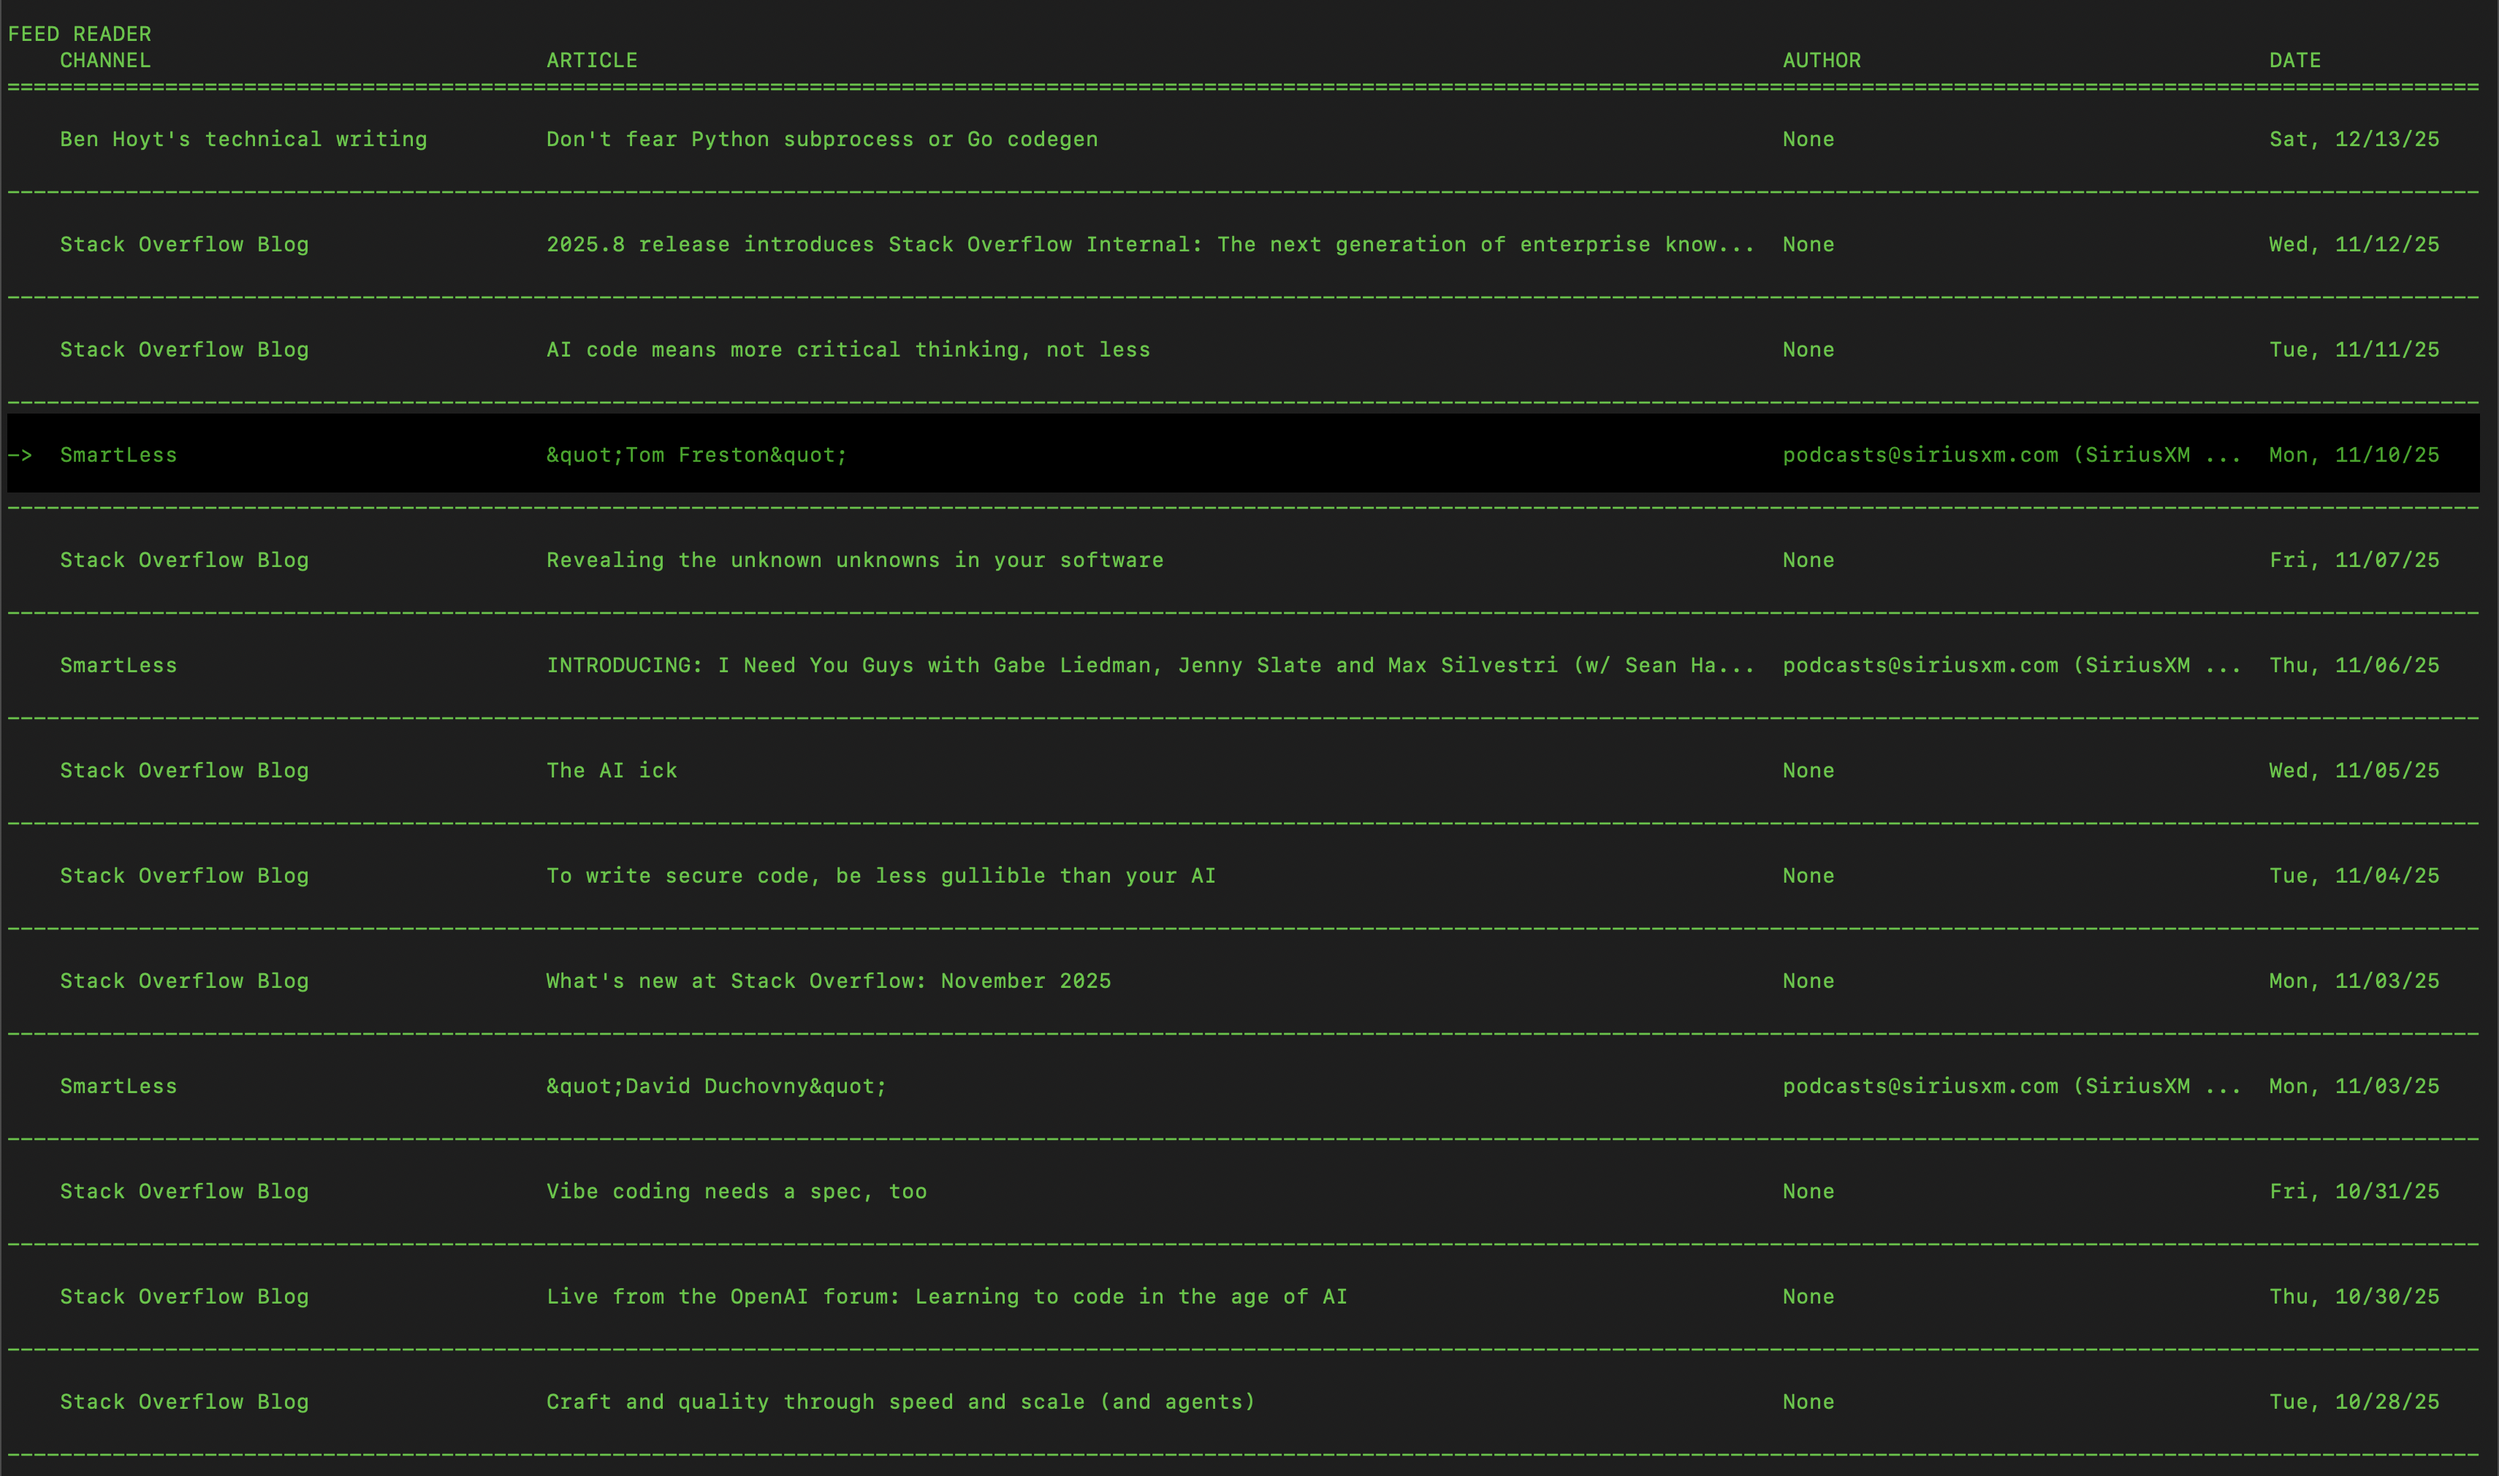
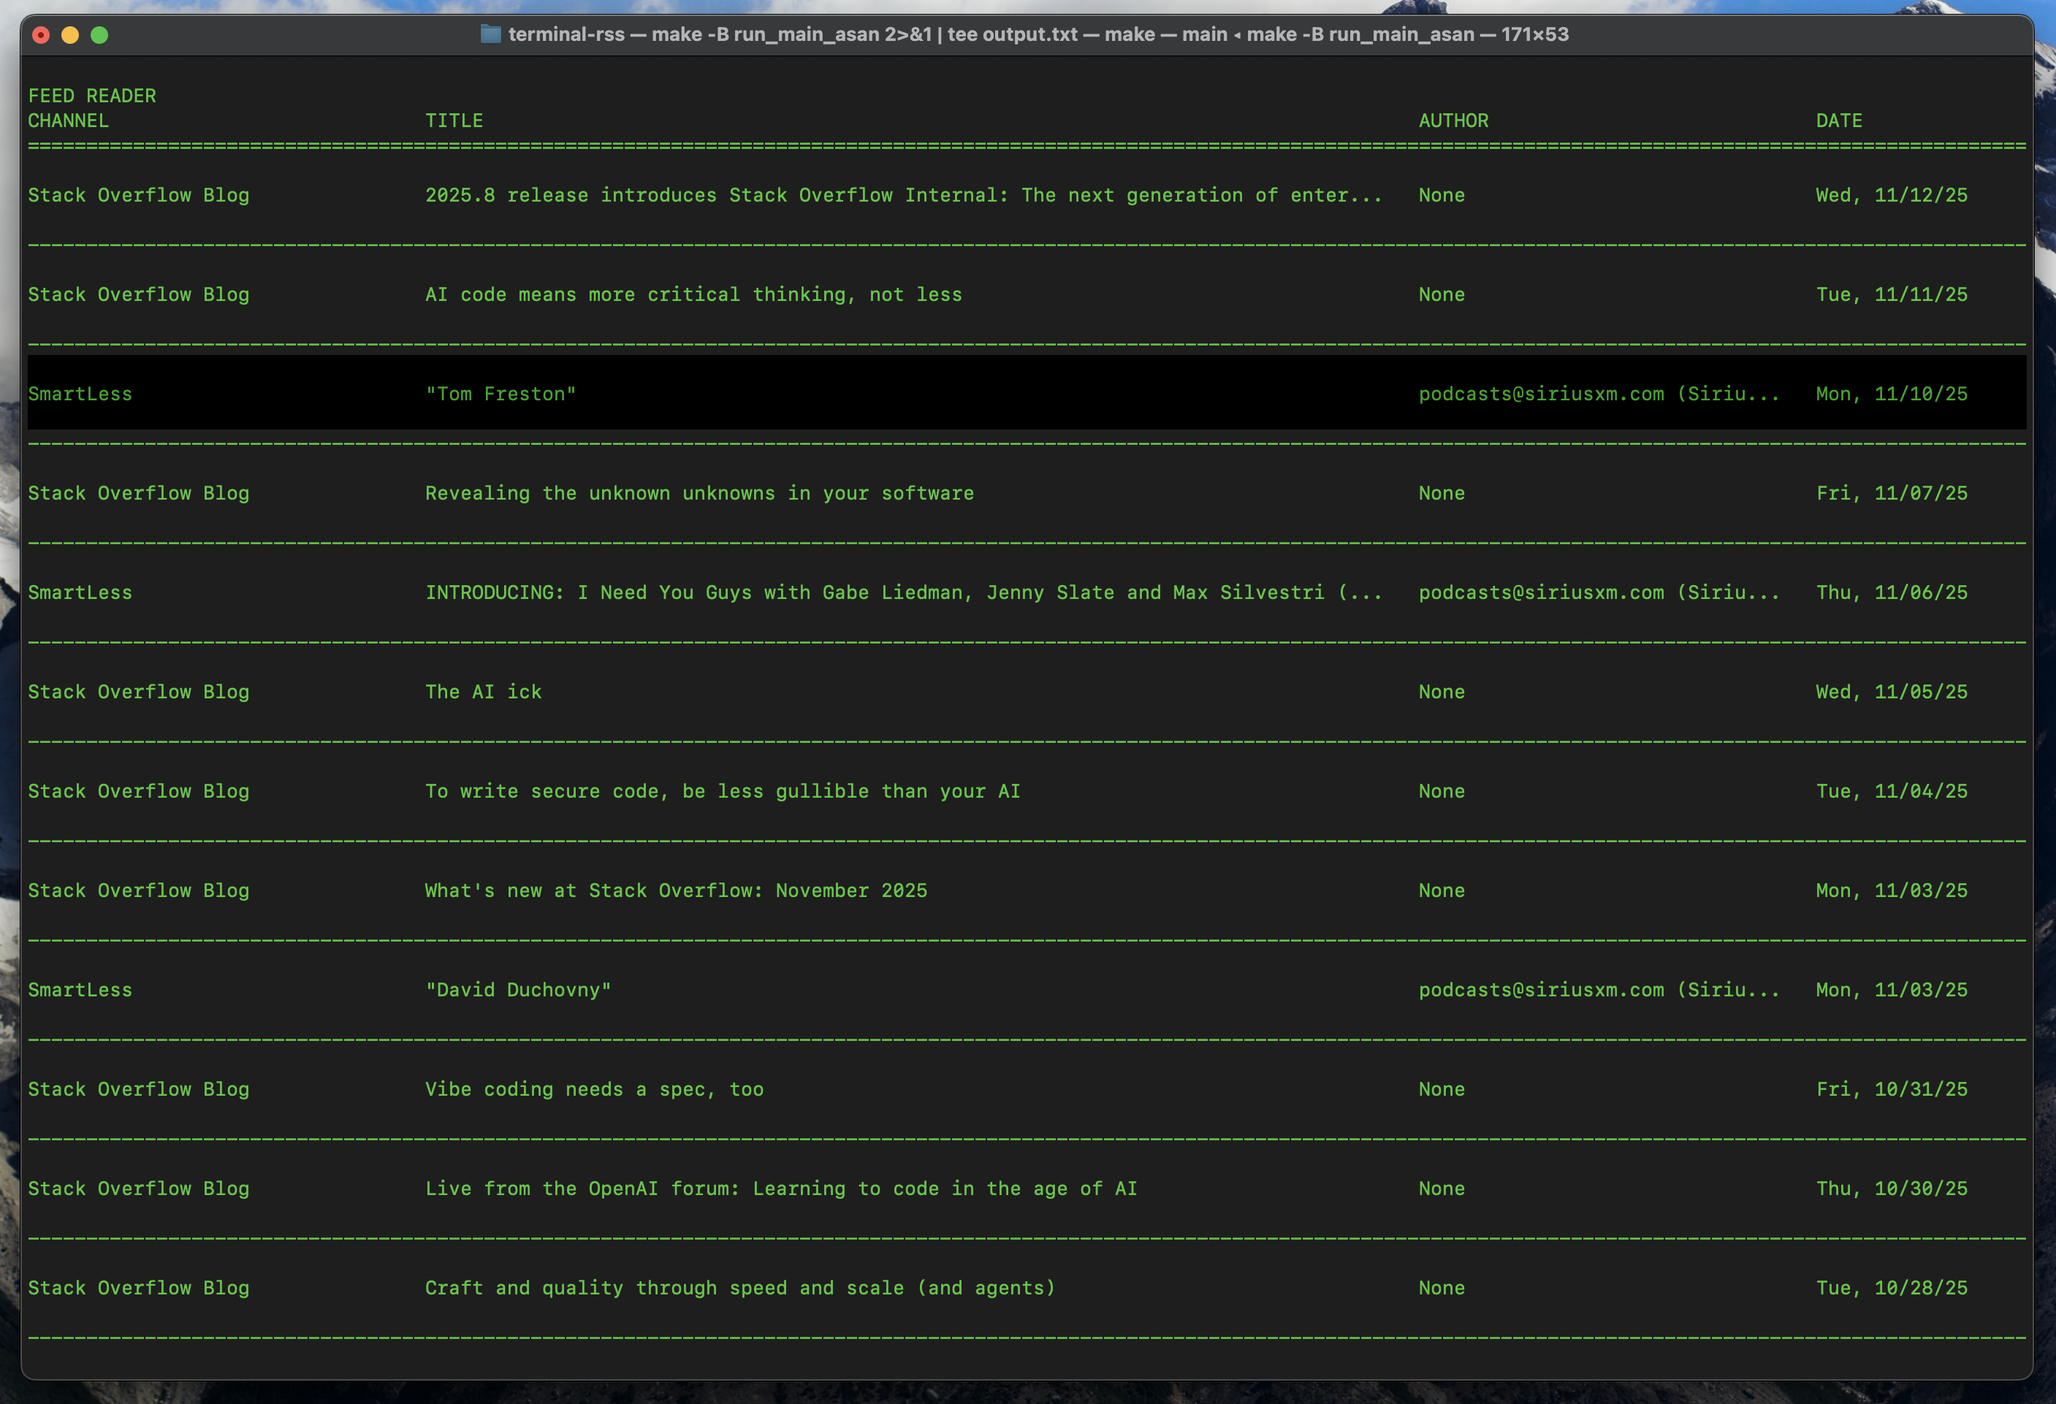
create article page, update readme, new screenshots, selected item is uppercase in basic menu

diff --git a/src/ui/pages/article_page.c b/src/ui/pages/article_page.c
@@ -8,24 +8,71 @@ char *options[] = {
     "Exit",
 };
 
+size_t PADDING = 10;
 size_t options_length = sizeof(options) / sizeof(options[0]);
 
 void article_page(app_state *app, local_state *state) {
+    int width = tb_width();
+
+    if (width > PADDING * 2) {
+        width -= PADDING * 2;
+    } else {
+        PADDING = 0;
+    }
+
+    char *divider = malloc(width + 1);
+    memset(divider, '-', width);
+    divider[width] = '\0';
+
+    int height = tb_height();
+
     article_page_state article_state = state->article_state;
     rss_item *article = article_state.item;
-    log_debug("Loaded article: %s", article->title);
-    int selection = display_basic_menu(10, options, sizeof(char *), options_length);
 
-    switch (selection)
-    {
-    case 0:
-        navigate(FEEDS_PAGE, app, (local_state){});
-        break;
-    case 1:
-        navigate(MAIN_PAGE, app, (local_state){});
-        break;
-    default:
-        navigate(EXIT_PAGE, app, (local_state){});
-        break;
+    log_debug("Loaded article: %s", article->title);
+
+    int y = 5;
+    tb_printf(PADDING, y++, TB_GREEN, 0, article->title);
+    tb_printf(PADDING, y++, TB_GREEN, 0, divider);
+    tb_printf(PADDING, y++, TB_GREEN, 0, article->channel->title);
+    tb_printf(PADDING, y++, TB_GREEN, 0, article->link);
+    y += 5;
+
+    size_t description_length = strlen(article->description);
+    size_t lines = 0;
+    size_t d_len = 0;
+
+    char *description = malloc(description_length + height);
+
+    for (size_t i = 0; i <= description_length; i++) {
+        char ch = article->description[i];
+        if (ch != '\n') {
+            description[d_len++] = article->description[i];
+        }
+        if (d_len % width == 0) {
+            description[d_len++] = '\n';
+            lines += 1;
+        }
+    }
+    description[d_len] = '\0';
+
+    tb_printf(PADDING, y++, TB_GREEN, 0, "DESCRIPTION");
+    tb_printf(PADDING, y++, TB_GREEN, 0, description);
+    y += lines + 5;
+    int selection = display_basic_menu(y++, options, sizeof(char *), options_length);
+
+    free(divider);
+    free(description);
+
+    switch (selection) {
+        case 0:
+            navigate(FEEDS_PAGE, app, (local_state){});
+            break;
+        case 1:
+            navigate(MAIN_PAGE, app, (local_state){});
+            break;
+        default:
+            navigate(EXIT_PAGE, app, (local_state){});
+            break;
     }
 }

diff --git a/src/ui/pages/feeds_page.c b/src/ui/pages/feeds_page.c
@@ -21,13 +21,13 @@ size_t add_column(char *row, int col_width, const char *col_str);
 static char *files[] = {
     "test_feeds/stack_overflow.xml",
     "test_feeds/smart_less.xml",
-    "test_feeds/ben_hoyt.xml",
-    "test_feeds/the_guardian.xml",
-    "test_feeds/hacker_news.xml",
-    "test_feeds/nyt_dining.xml",
-    "test_feeds/autoblog.xml",
-    "test_feeds/speedhunters.xml",
-    "test_feeds/new_yorker.xml"
+    // "test_feeds/ben_hoyt.xml",
+    // "test_feeds/the_guardian.xml",
+    // "test_feeds/hacker_news.xml",
+    // "test_feeds/nyt_dining.xml",
+    // "test_feeds/autoblog.xml",
+    // "test_feeds/speedhunters.xml",
+    // "test_feeds/new_yorker.xml"
 };
 
 static char *row; 

diff --git a/src/ui/ui_utils.c b/src/ui/ui_utils.c
@@ -87,6 +87,10 @@ static int render_basic_menu(int x, int y, bool selected, const void *txt) {
 
     if (selected) {
         snprintf(selected_s, max_len,"[ %s ]", text);
+        for (size_t i = 0; i < max_len; i++) {
+            char ch = selected_s[i];
+            selected_s[i] = toupper((unsigned char)ch);
+        }
     } else {
         snprintf(selected_s, max_len, "  %s  ", text);
     }

diff --git a/src/parser/xml_rss.c b/src/parser/xml_rss.c
@@ -20,7 +20,6 @@ static xml_entity xml_entities[] = {
     {.ch = '"', .s = "&quot;"},
     {.ch = '\'', .s = "&#x27;"},
     {.ch = '\'', .s = "&apos;"},
-
 };
 
 // ======== Forward declarations ======== //

diff --git a/README.md b/README.md
@@ -1,11 +1,13 @@
 # Terminal RSS Aggregator
 A lightweight RSS Aggregator that runs in your terminal. Written in C. Custom text UI that will periodically fetch feeds and cache them for you. (Caching to be implemented and networking to be sorted out)
 
-## Pictures
 ### Main Menu
 ![Main Menu](assets/main_menu.png)
 
 ### Feed Reader
 ![Feed Reader](assets/feed_reader.png)
+
+### Article Page
+![Article Page](assets/article.png)
 
 See todo.txt for what's next
